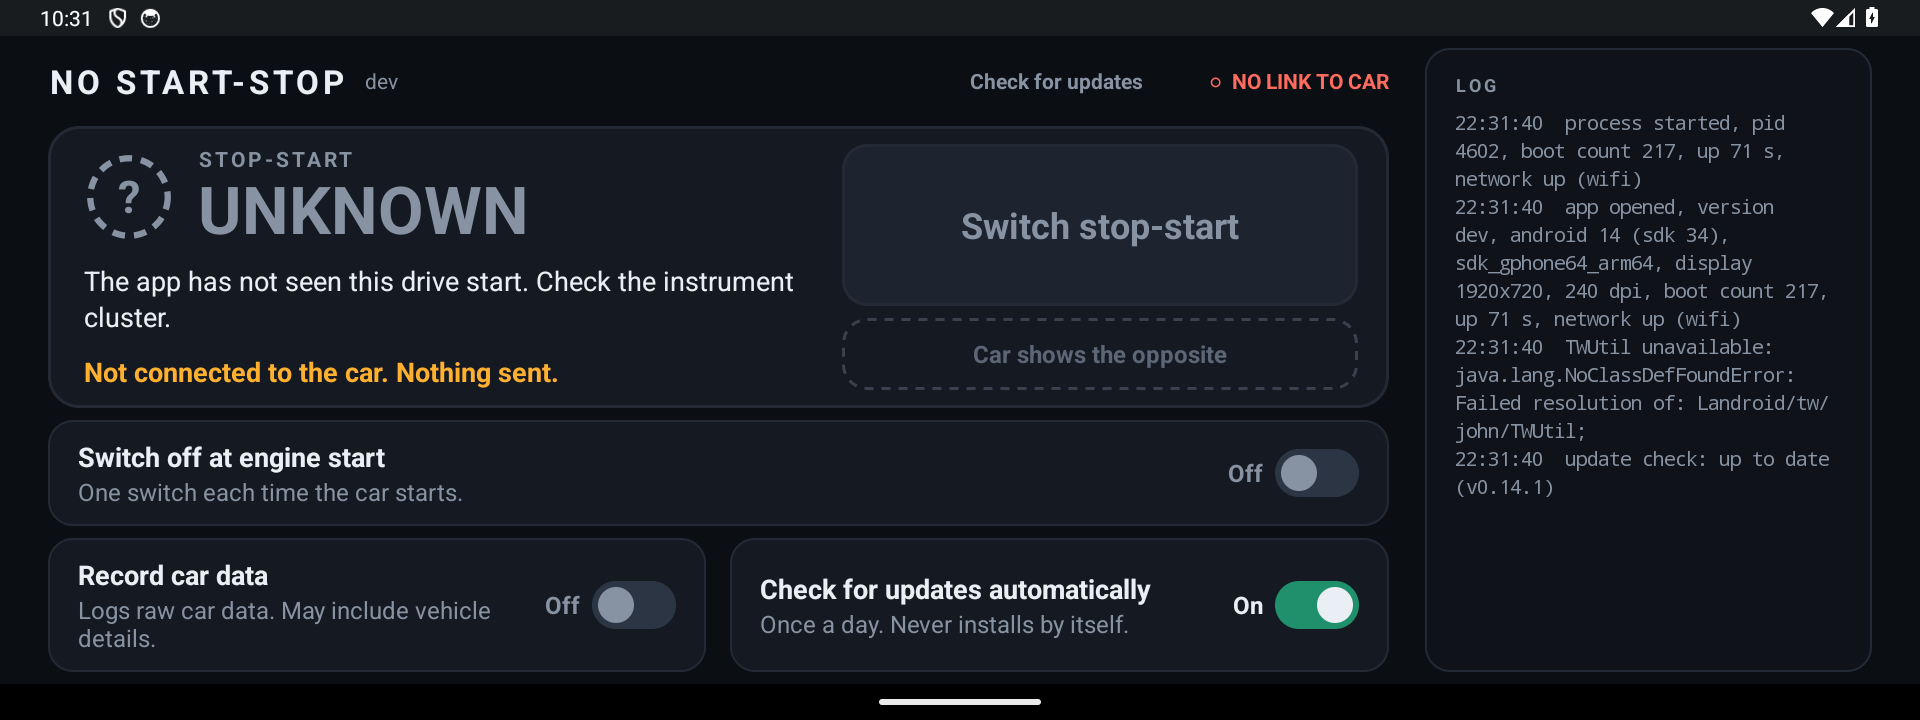
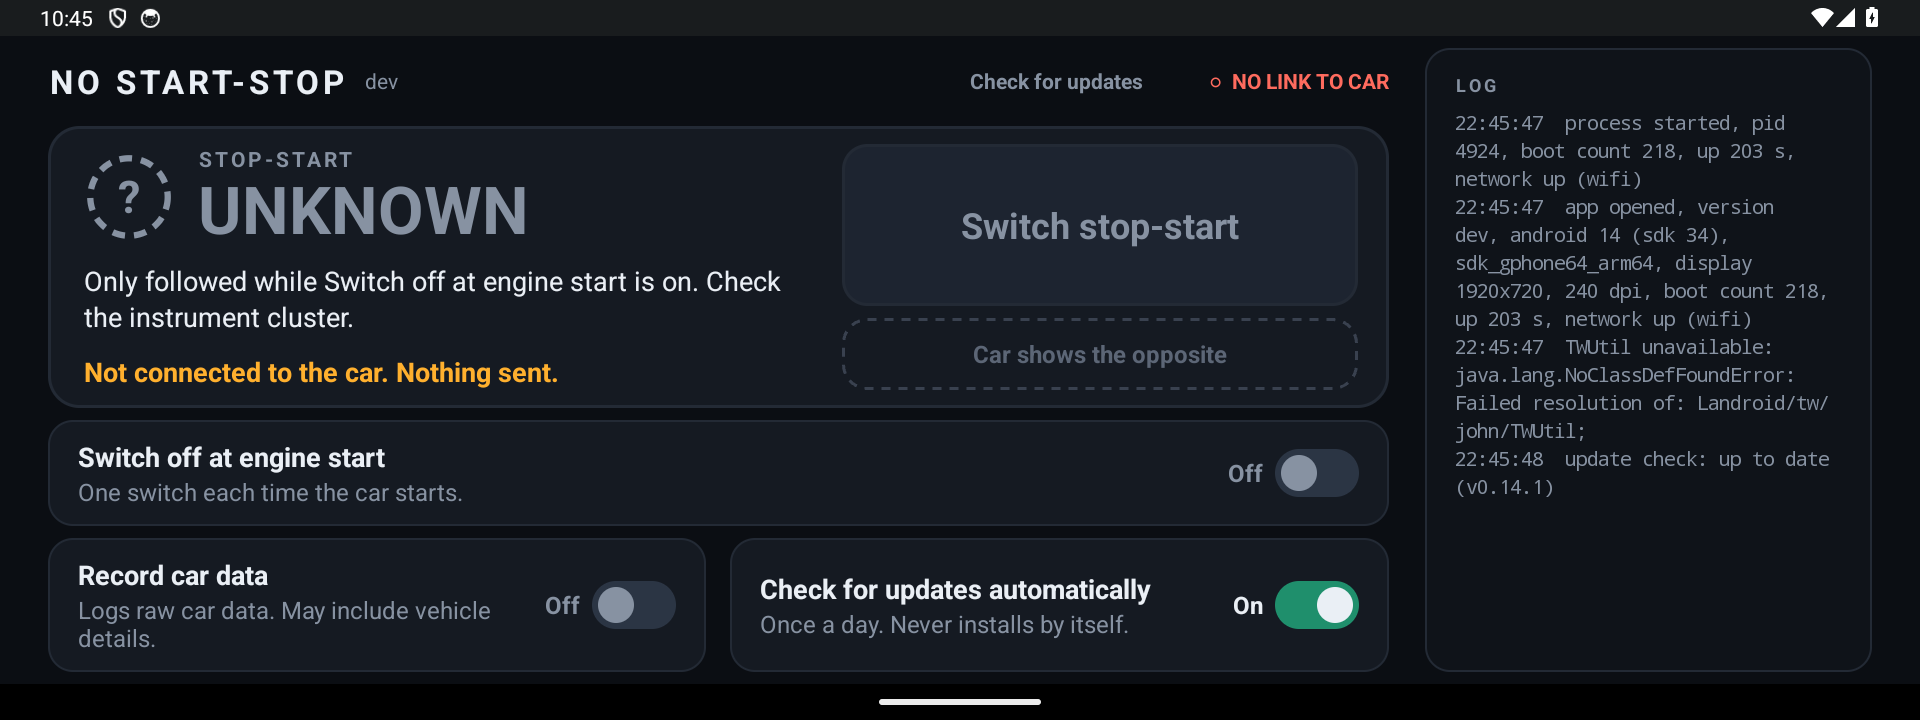
Fix the UNKNOWN and ON hints, text scaling and badge drawing review points

diff --git a/src/com/furgo/nostartstop/MainActivity.java b/src/com/furgo/nostartstop/MainActivity.java
@@ -17,10 +17,11 @@ import android.os.Build;
 import android.os.Bundle;
 import android.os.Handler;
 import android.os.SystemClock;
+import android.text.Layout;
 import android.text.SpannableStringBuilder;
-import android.text.style.AbsoluteSizeSpan;
+import android.text.TextPaint;
 import android.text.style.ForegroundColorSpan;
-import android.text.style.StyleSpan;
+import android.text.style.RelativeSizeSpan;
 import android.util.DisplayMetrics;
 import android.util.TypedValue;
 import android.view.Gravity;
@@ -94,6 +95,7 @@ public class MainActivity extends Activity implements CanBox.Listener {
     private TextView switchButton;
     private TextView assumedWord;
     private TextView assumedHint;
+    private static final float WORD_SP = 44;
     private StateBadge badge;
     private LinearLayout stateCard;
     private TextView wrongButton;
@@ -182,12 +184,22 @@ public class MainActivity extends Activity implements CanBox.Listener {
         private final Paint paint = new Paint(Paint.ANTI_ALIAS_FLAG);
         private final Path path = new Path();
         private int state = AssumedState.UNKNOWN;
+        private final RectF arc = new RectF();
+        private DashPathEffect dash;
+
+        @Override
+        protected void onSizeChanged(int w, int h, int ow, int oh) {
+            float u = Math.min(w, h), r = u * 0.42f;
+            arc.set(w / 2f - r, h / 2f - r, w / 2f + r, h / 2f + r);
+            dash = new DashPathEffect(new float[]{u * 0.14f, u * 0.1f}, 0);
+        }
 
         StateBadge(Context c) {
             super(c);
         }
 
         void setState(int s) {
+            if (s == state) return;
             state = s;
             invalidate();
         }
@@ -204,7 +216,7 @@ public class MainActivity extends Activity implements CanBox.Listener {
                 paint.setStyle(Paint.Style.STROKE);
                 paint.setStrokeWidth(sw);
                 paint.setColor(color);
-                c.drawArc(new RectF(cx - r, cy - r, cx + r, cy + r), 300, 285, false, paint);
+                c.drawArc(arc, 300, 285, false, paint);
                 double end = Math.toRadians(225);
                 float px = cx + r * (float) Math.cos(end), py = cy + r * (float) Math.sin(end);
                 float tx = -(float) Math.sin(end), ty = (float) Math.cos(end), nx = ty, ny = -tx;
@@ -223,7 +235,7 @@ public class MainActivity extends Activity implements CanBox.Listener {
                 paint.setTextSize(u * 0.56f);
                 c.drawText("A", cx, cy + u * 0.2f, paint);
                 if (state == AssumedState.OFF) {
-                    float d = u * 0.46f;
+                    float d = u * 0.43f;
                     paint.setStyle(Paint.Style.STROKE);
                     paint.setStrokeWidth(sw * 1.6f);
                     paint.setColor(CARD);
@@ -238,7 +250,7 @@ public class MainActivity extends Activity implements CanBox.Listener {
                 paint.setStrokeWidth(sw);
                 paint.setColor(MUTED);
                 paint.setStrokeCap(Paint.Cap.BUTT);
-                paint.setPathEffect(new DashPathEffect(new float[]{u * 0.14f, u * 0.1f}, 0));
+                paint.setPathEffect(dash);
                 c.drawCircle(cx, cy, u / 2 - sw, paint);
                 paint.setPathEffect(null);
                 paint.setStyle(Paint.Style.FILL);
@@ -691,15 +703,16 @@ public class MainActivity extends Activity implements CanBox.Listener {
         if (assumed != AssumedState.UNKNOWN) {
             int from = sb.length();
             sb.append("  assumed");
-            sb.setSpan(new AbsoluteSizeSpan(20, true), from, sb.length(), 0);
+            sb.setSpan(new RelativeSizeSpan(20f / WORD_SP), from, sb.length(), 0);
             sb.setSpan(new ForegroundColorSpan(MUTED), from, sb.length(), 0);
-            sb.setSpan(new StyleSpan(Typeface.NORMAL), from, sb.length(), 0);
         }
         assumedWord.setText(sb);
+        fitWord();
         assumedWord.setTextColor(stateColor);
-        assumedHint.setText(assumed == AssumedState.OFF ? "Not read from the car. Check the instrument cluster."
-                : assumed == AssumedState.ON ? "Not read from the car. Tap Switch to turn it off."
-                : "The app has not seen this drive start. Check the instrument cluster.");
+        assumedHint.setText(assumed == AssumedState.ON && usable ? "Not read from the car. Tap Switch to turn it off."
+                : assumed != AssumedState.UNKNOWN ? "Not read from the car. Check the instrument cluster."
+                : !Prefs.applyAtBoot(this) ? "Only followed while Switch off at engine start is on. Check the instrument cluster."
+                : "Not followed since the last ignition off. Check the instrument cluster.");
         boolean canReport = assumed != AssumedState.UNKNOWN && !pending && !bootBusy
                 && SystemClock.elapsedRealtime() >= reportedAt + HOLD_MS;
         wrongButton.setEnabled(canReport);
@@ -721,6 +734,21 @@ public class MainActivity extends Activity implements CanBox.Listener {
         handler.postDelayed(rerender, HOLD_MS);
         flash(result == Prefs.REPORT_LOGGED ? "Noted in the log. Nothing sent to the car."
                 : "Changed, but not logged: too many reports today. Nothing sent to the car.");
+    }
+
+    /** Shrinks the state word to one line when the column is narrow or the font scale is large. */
+    private void fitWord() {
+        int avail = assumedWord.getWidth() - assumedWord.getPaddingLeft() - assumedWord.getPaddingRight();
+        if (avail <= 0) return;
+        float size = WORD_SP * getResources().getDisplayMetrics().scaledDensity;
+        TextPaint tp = new TextPaint(assumedWord.getPaint());
+        tp.setTextSize(size);
+        CharSequence t = assumedWord.getText();
+        while (size > 12 * density && Layout.getDesiredWidth(t, tp) > avail) {
+            size -= density;
+            tp.setTextSize(size);
+        }
+        if (assumedWord.getTextSize() != size) assumedWord.setTextSize(TypedValue.COMPLEX_UNIT_PX, size);
     }
 
     private void renderBoot() {
@@ -876,8 +904,15 @@ public class MainActivity extends Activity implements CanBox.Listener {
         TextView t = text("STOP-START", 14, MUTED, true);
         t.setLetterSpacing(0.14f);
         stack.addView(t);
-        assumedWord = text("", 44, TEXT, true);
+        assumedWord = text("", WORD_SP, TEXT, true);
         assumedWord.setIncludeFontPadding(false);
+        assumedWord.setSingleLine(true);
+        assumedWord.addOnLayoutChangeListener(new View.OnLayoutChangeListener() {
+            @Override
+            public void onLayoutChange(View v, int l, int t, int r, int b, int ol, int ot, int or, int ob) {
+                fitWord();
+            }
+        });
         stack.addView(assumedWord);
         LinearLayout.LayoutParams stackLp = new LinearLayout.LayoutParams(0, -2, 1f);
         stackLp.leftMargin = dp(16);

diff --git a/src/com/furgo/nostartstop/AssumedState.java b/src/com/furgo/nostartstop/AssumedState.java
@@ -2,7 +2,7 @@ package com.furgo.nostartstop;
 
 /**
  * The stop-start state the app assumes. The car does not report it, so it is a model: the car turns stop-start on at
- * every engine start, each switch sent flips it, and so does each "status is wrong" report. It is unknown before the
+ * every engine start, each switch sent flips it, and so does each "Car shows the opposite" report. It is unknown before the
  * app has seen a cycle start, from ignition off until the next one, and while the automatic switch is off (then
  * nothing watches the ignition). Plain fields, so Prefs can store and reload them; times are elapsedRealtime.
  */
@@ -59,7 +59,7 @@ final class AssumedState {
         return true;
     }
 
-    /** A "status is wrong" report. Refused (false) while the state is unknown. */
+    /** A "Car shows the opposite" report. Refused (false) while the state is unknown. */
     boolean report(String current, boolean enabled) {
         if (state(current, enabled) == UNKNOWN) return false;
         reports++;

diff --git a/src/com/furgo/nostartstop/WatchService.java b/src/com/furgo/nostartstop/WatchService.java
@@ -24,7 +24,7 @@ public class WatchService extends Service implements CanBox.Listener, CanBox.Pow
     private static final String EXTRA_HOW = "how";
     /** The last power state this process saw was ignition off. Main thread only. */
     static boolean ignitionOffNow;
-    /** The last power state and battery reading this process saw, or -1, for the "status is wrong" report. */
+    /** The last power state and battery reading this process saw, or -1, for the "Car shows the opposite" report. */
     static int seenPowerState = -1, seenCentivolts = -1;
     static long seenPowerStateAt, seenCentivoltsAt;
     private static final int NOTIFICATION_ID = 3;
